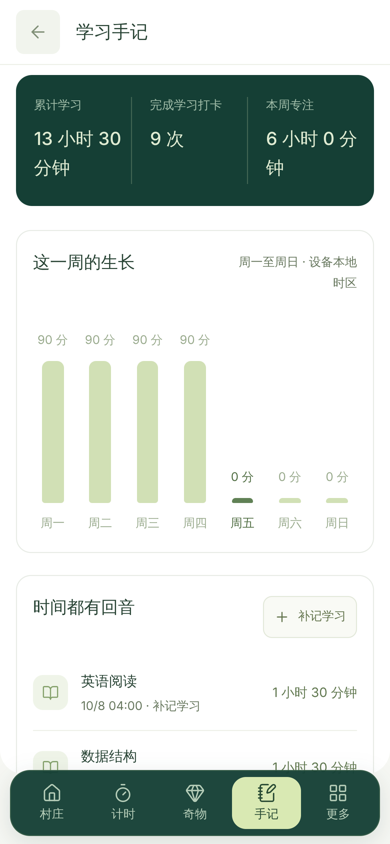
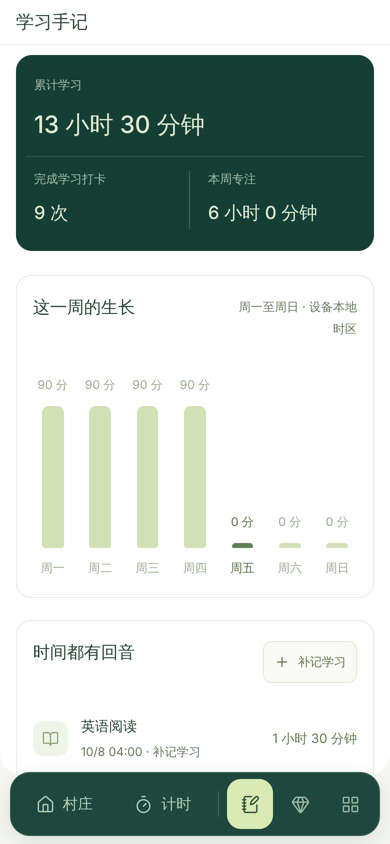
Restore focus on timer and village in the dock; drop in-page back button
- Dock hierarchy: 村庄 and 计时 are wide labelled buttons; 手记, 奇物 and
  更多 are compact icons after a divider (手记 now sits next to 计时)
- Remove the secondary page back button; phones navigate with the dock,
  desktop keeps the dialog close button
- Refresh before/after screenshots

Claude-Session: https://claude.ai/code/session_016Rv1tnGkMJ5CNT4tZswNT8

diff --git a/dist/index.html b/dist/index.html
@@ -252,7 +252,6 @@
     <div id="toast" role="status" aria-live="polite"></div>
     <dialog id="secondary-dialog" class="secondary-dialog">
       <div class="dialog-heading">
-        <button id="secondary-back" class="icon-button" aria-label="返回二级菜单"><i data-lucide="arrow-left"></i></button>
         <h2 id="page-label"></h2>
         <button data-close="secondary-dialog" class="icon-button" aria-label="关闭"><i data-lucide="x"></i></button>
       </div>
@@ -389,12 +388,17 @@
       </div>
     </div>
     <nav class="screen-dock" aria-label="主导航">
-      <button data-page="village" data-dock="village" aria-current="page" class="selected">
+      <button class="dock-core" data-page="village" data-dock="village" aria-current="page">
         <i data-lucide="house"></i><span>村庄</span></button
-      ><button data-page="focus" data-dock="focus"><i data-lucide="timer"></i><span>计时</span></button
-      ><button data-page="wonders" data-dock="wonders"><i data-lucide="gem"></i><span>奇物</span></button
-      ><button data-page="journal" data-dock="journal"><i data-lucide="notebook-pen"></i><span>手记</span></button
-      ><button id="dock-more" data-dock="more" aria-haspopup="dialog"><i data-lucide="layout-grid"></i><span>更多</span></button>
+      ><button class="dock-core" data-page="focus" data-dock="focus"><i data-lucide="timer"></i><span>计时</span></button
+      ><span class="dock-divider" aria-hidden="true"></span
+      ><button class="dock-minor" data-page="journal" data-dock="journal" aria-label="学习手记" title="学习手记">
+        <i data-lucide="notebook-pen"></i><span>手记</span></button
+      ><button class="dock-minor" data-page="wonders" data-dock="wonders" aria-label="奇物" title="奇物">
+        <i data-lucide="gem"></i><span>奇物</span></button
+      ><button class="dock-minor" id="dock-more" data-dock="more" aria-haspopup="dialog" aria-label="更多" title="更多">
+        <i data-lucide="layout-grid"></i><span>更多</span>
+      </button>
     </nav>
   </body>
 </html>

diff --git a/dist/style.css b/dist/style.css
@@ -5147,3 +5147,71 @@ body.build-mode .build-entry {
     white-space: nowrap;
   }
 }
+
+/* ---------- dock hierarchy: 村庄 · 计时 are the core; the rest are compact icons ---------- */
+.screen-dock {
+  display: flex;
+  align-items: center;
+}
+.screen-dock .dock-core {
+  flex-direction: row;
+  gap: 8px;
+  min-width: 118px;
+  min-height: 46px;
+  padding: 0 20px;
+  font-size: 14px;
+  font-weight: 600;
+}
+.screen-dock .dock-minor {
+  flex-direction: column;
+  width: 46px;
+  min-width: 46px;
+  min-height: 46px;
+  padding: 0;
+  color: #9fbaa5;
+}
+.screen-dock .dock-minor span {
+  position: absolute;
+  width: 1px;
+  height: 1px;
+  overflow: hidden;
+  clip: rect(0 0 0 0);
+  white-space: nowrap;
+}
+.screen-dock .dock-minor svg {
+  width: 19px;
+  height: 19px;
+}
+.dock-divider {
+  flex: none;
+  width: 1px;
+  height: 26px;
+  margin: 0 4px;
+  background: #ffffff2b;
+}
+@media (max-width: 760px) {
+  .screen-dock {
+    display: flex;
+    gap: 4px;
+    padding: 6px;
+  }
+  .screen-dock .dock-core {
+    flex: 1 1 0;
+    min-width: 0;
+    min-height: 50px;
+    padding: 0 8px;
+    font-size: 15px;
+  }
+  .screen-dock .dock-core svg {
+    width: 19px;
+    height: 19px;
+  }
+  .screen-dock .dock-minor {
+    flex: none;
+    width: 44px;
+    min-height: 50px;
+  }
+  :root {
+    --dock-h: calc(76px + env(safe-area-inset-bottom));
+  }
+}

diff --git a/dist/ui/nav.js b/dist/ui/nav.js
@@ -79,7 +79,6 @@ document.addEventListener('keydown', e => {
 });
 $('#menu-button').onclick = () => $('#menu-dialog').showModal();
 $('#dock-more').onclick = () => $('#menu-dialog').showModal();
-$('#secondary-back').onclick = () => $('#secondary-dialog').close();
 // Each gesture selects one complete screen; the two screens never share a scroll position.
 const pager = $('#home-pages');
 let swipe = null,

diff --git a/README.md b/README.md
@@ -4,7 +4,7 @@
 
 ## 使用
 
-底部导航栏有五项：村庄、计时、奇物（星砂寻宝 / 奇物柜，页内分段切换）、手记、更多（自由建造、建筑管理、存档与规则）。村庄与计时两屏可上下滑动切换；手机上其余页面铺满导航栏以上的区域，导航栏始终可用，其他弹窗以底部面板形式弹出。横向拖动村庄用于旋转 3D 视角，点击 3D 建筑可进入建筑管理。切换页面不会中断计时或更换存档。
+底部导航栏以「村庄」「计时」两项为主；右侧三个小图标依次是手记、奇物（星砂寻宝 / 奇物柜，页内分段切换）和更多（自由建造、建筑管理、存档与规则）。村庄与计时两屏可上下滑动切换；手机上其余页面铺满导航栏以上的区域，通过导航栏切换，其他弹窗以底部面板形式弹出。横向拖动村庄用于旋转 3D 视角，点击 3D 建筑可进入建筑管理。切换页面不会中断计时或更换存档。
 
 1. 选择 25 / 45 / 60 分钟，填写学习内容并开始计时。支持暂停、继续、刷新恢复；到点停止累计，点击「结束并打卡」后发放奖励。
 2. 已完成的学习可补记 1–240 分钟，指定结束时间。拒绝未来记录、重复时间和与已保存记录重叠的时间。
